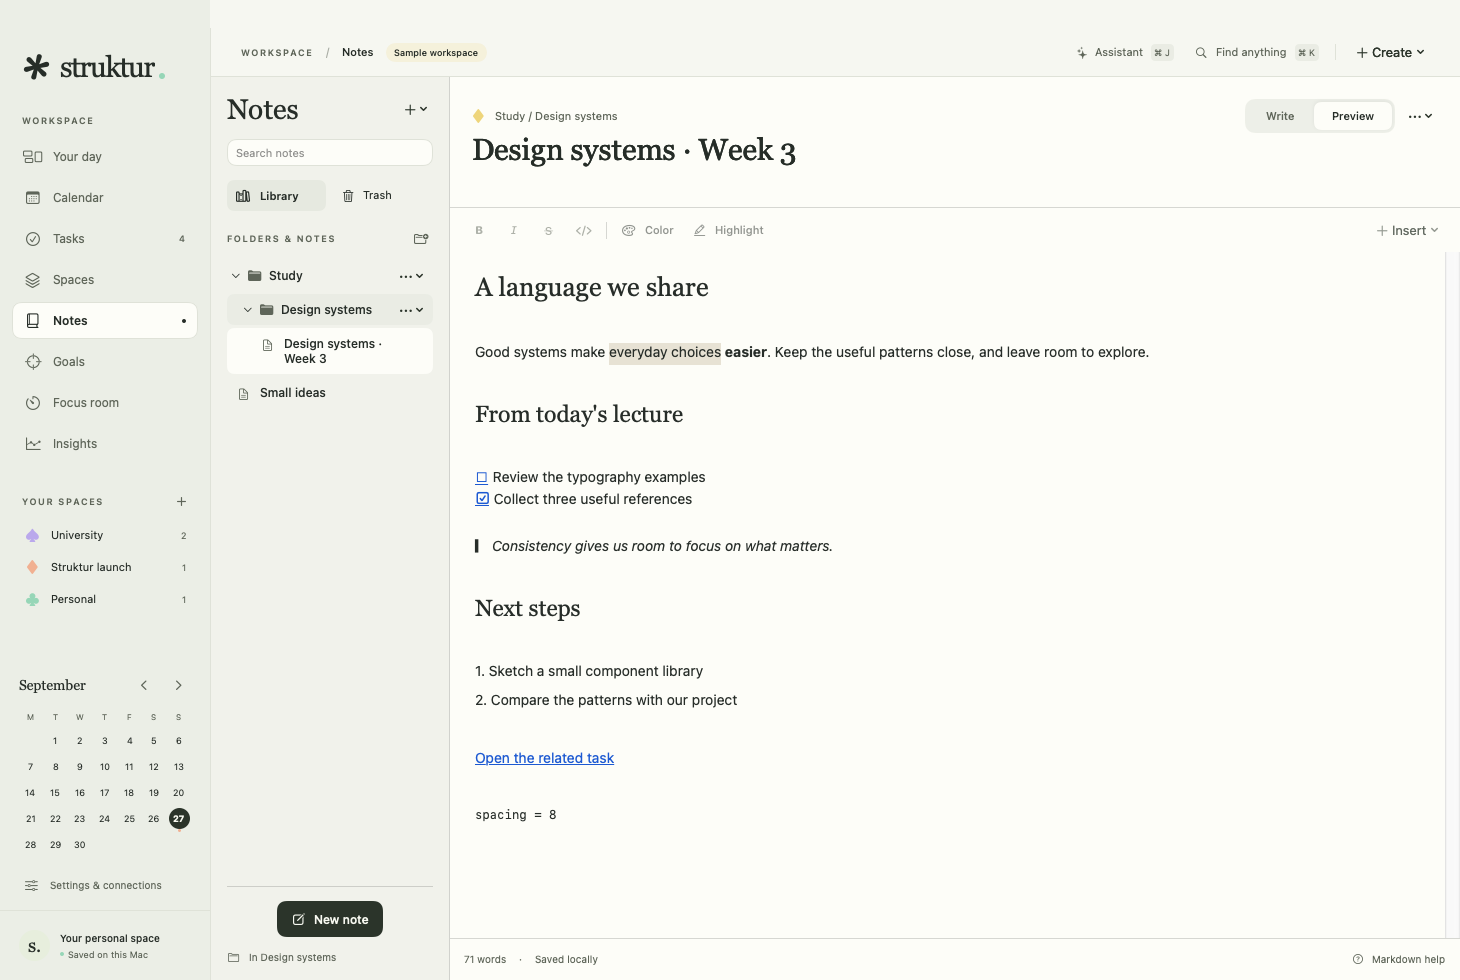
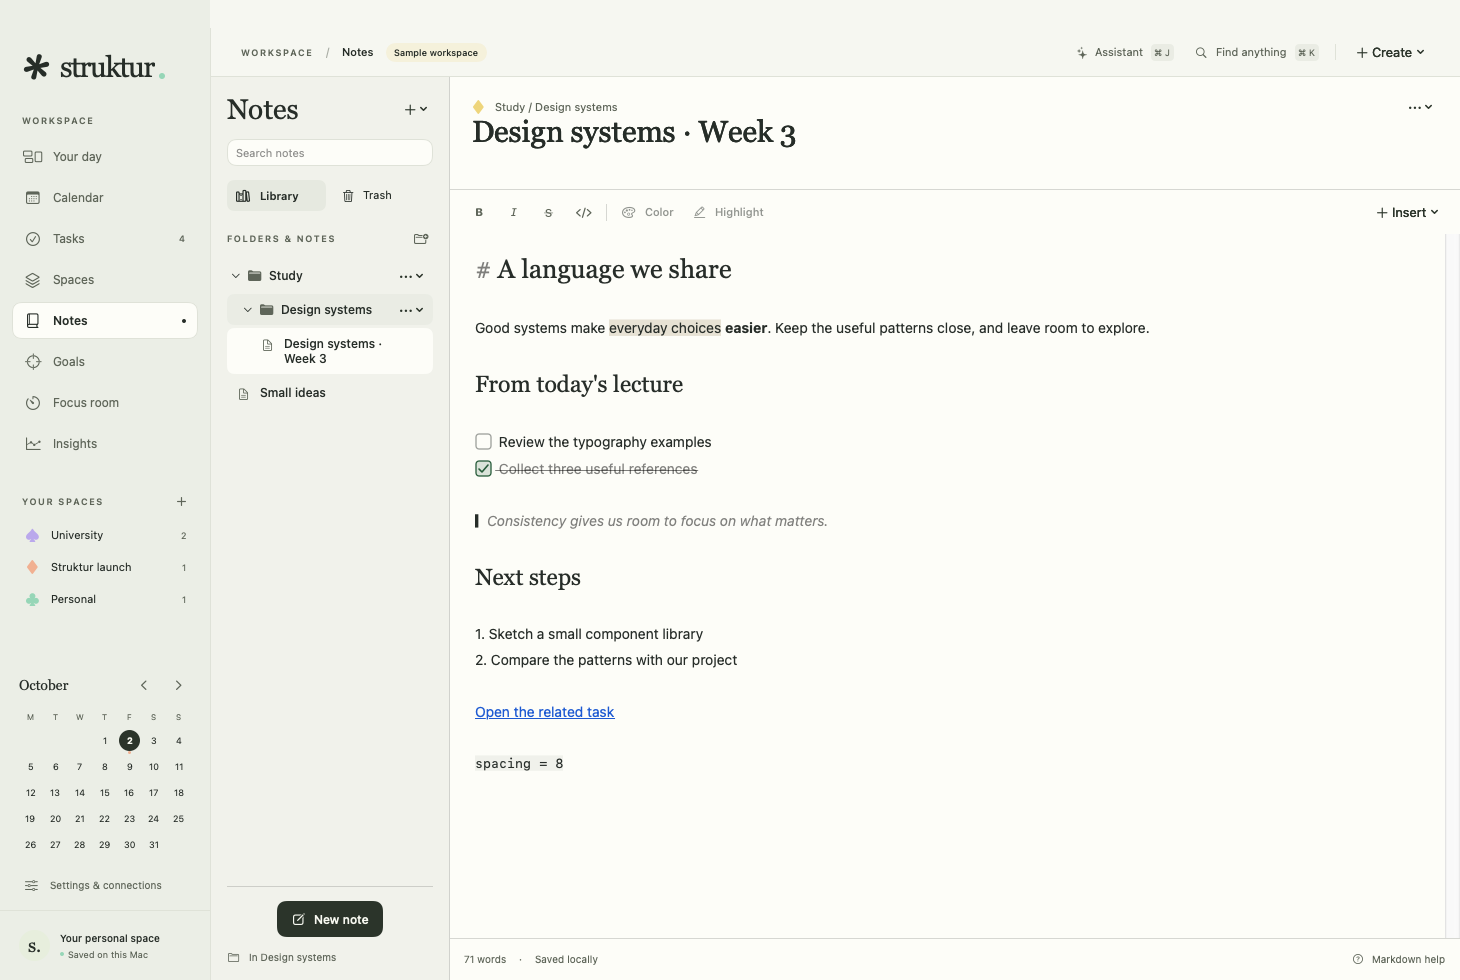
Refresh Notes screenshot for the live editor
Capture the single-surface Notes UI and remove the obsolete Preview action from the screenshot script. Allow targeted screenshot refreshes.

diff --git a/Documentation/Images/README.md b/Documentation/Images/README.md
@@ -1,12 +1,12 @@
 # App screenshots
 
-Captured from Struktur on 27 September 2026 using the isolated preview setup in `scripts/capture-demos.sh`. The dark Assistant capture shows the refined one-point pastel border and native thinking indicator.
+Captured from Struktur on 27 September 2026, with Notes refreshed on 2 October, using the isolated preview setup in `scripts/capture-demos.sh`. The dark Assistant capture shows the refined one-point pastel border and native thinking indicator.
 
 | File | View | Window size (points) |
 | --- | --- | --- |
 | `dashboard-light.webp` | Starter dashboard, light | 1460 × 1060 |
 | `calendar-light.webp` | Week view with fictional appointments, light | 1460 × 980 |
-| `notes-light.webp` | Notes library in Preview, light | 1460 × 980 |
+| `notes-light.webp` | Notes library with live formatting, light | 1460 × 980 |
 | `assistant-dark.webp` | Assistant thinking over the dashboard, dark | 1280 × 820 |
 
 Pixel dimensions depend on the display’s backing scale. These are lossless WebP versions of app-content captures from disposable preview workspaces. The Assistant uses the simulated debug client; the screenshot does not demonstrate a live model response. Regeneration follows the current date, so calendar labels and the animation phase can change. See [development instructions](../Development.md#readme-screenshots).
